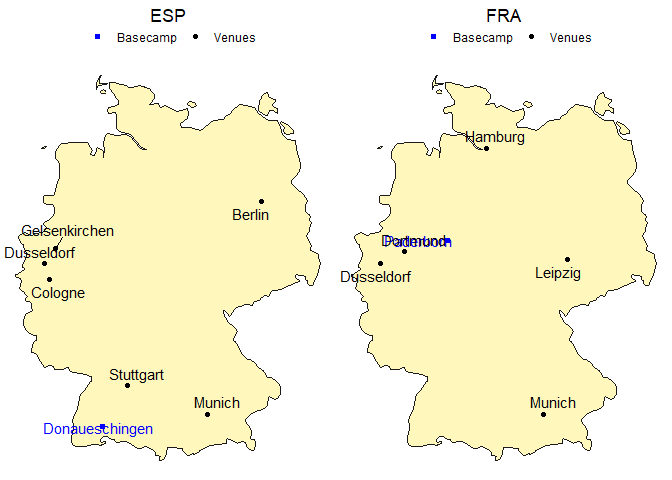
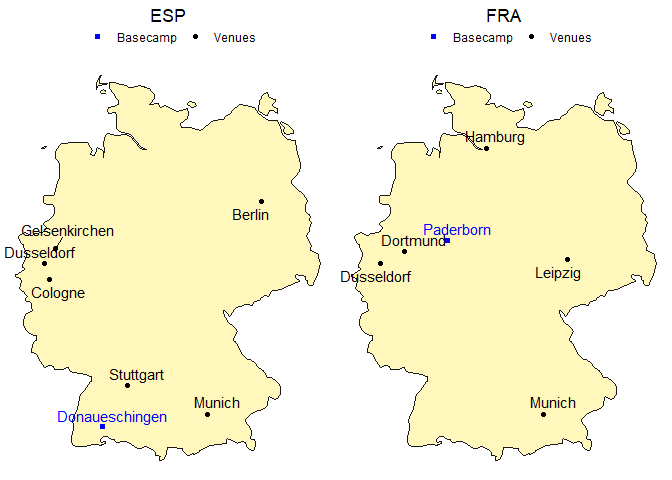
update

Changed region(s): [[0.0625, 0.8438, 0.25, 0.9062], [0.5625, 0.4688, 0.75, 0.5312]]

diff --git a/Spain_vs_France.md b/Spain_vs_France.md
@@ -60,8 +60,7 @@ plot_team_journey <- function(team, show_legend = TRUE) {
                aes(x = long, y = lat, color = "Basecamp"), shape = 15) +
     geom_text_repel(data = basecamp_data,
               aes(label = basecamp, x = long, y = lat, color = "Basecamp"),
-              show.legend = FALSE,
-              hjust = -0.05) +
+              show.legend = FALSE) +
     geom_text_repel(data = match_data,
               aes(label = stadium_city, x = stadium_longitude, y = stadium_latitude, color = "Venues"),
               show.legend = FALSE) +
